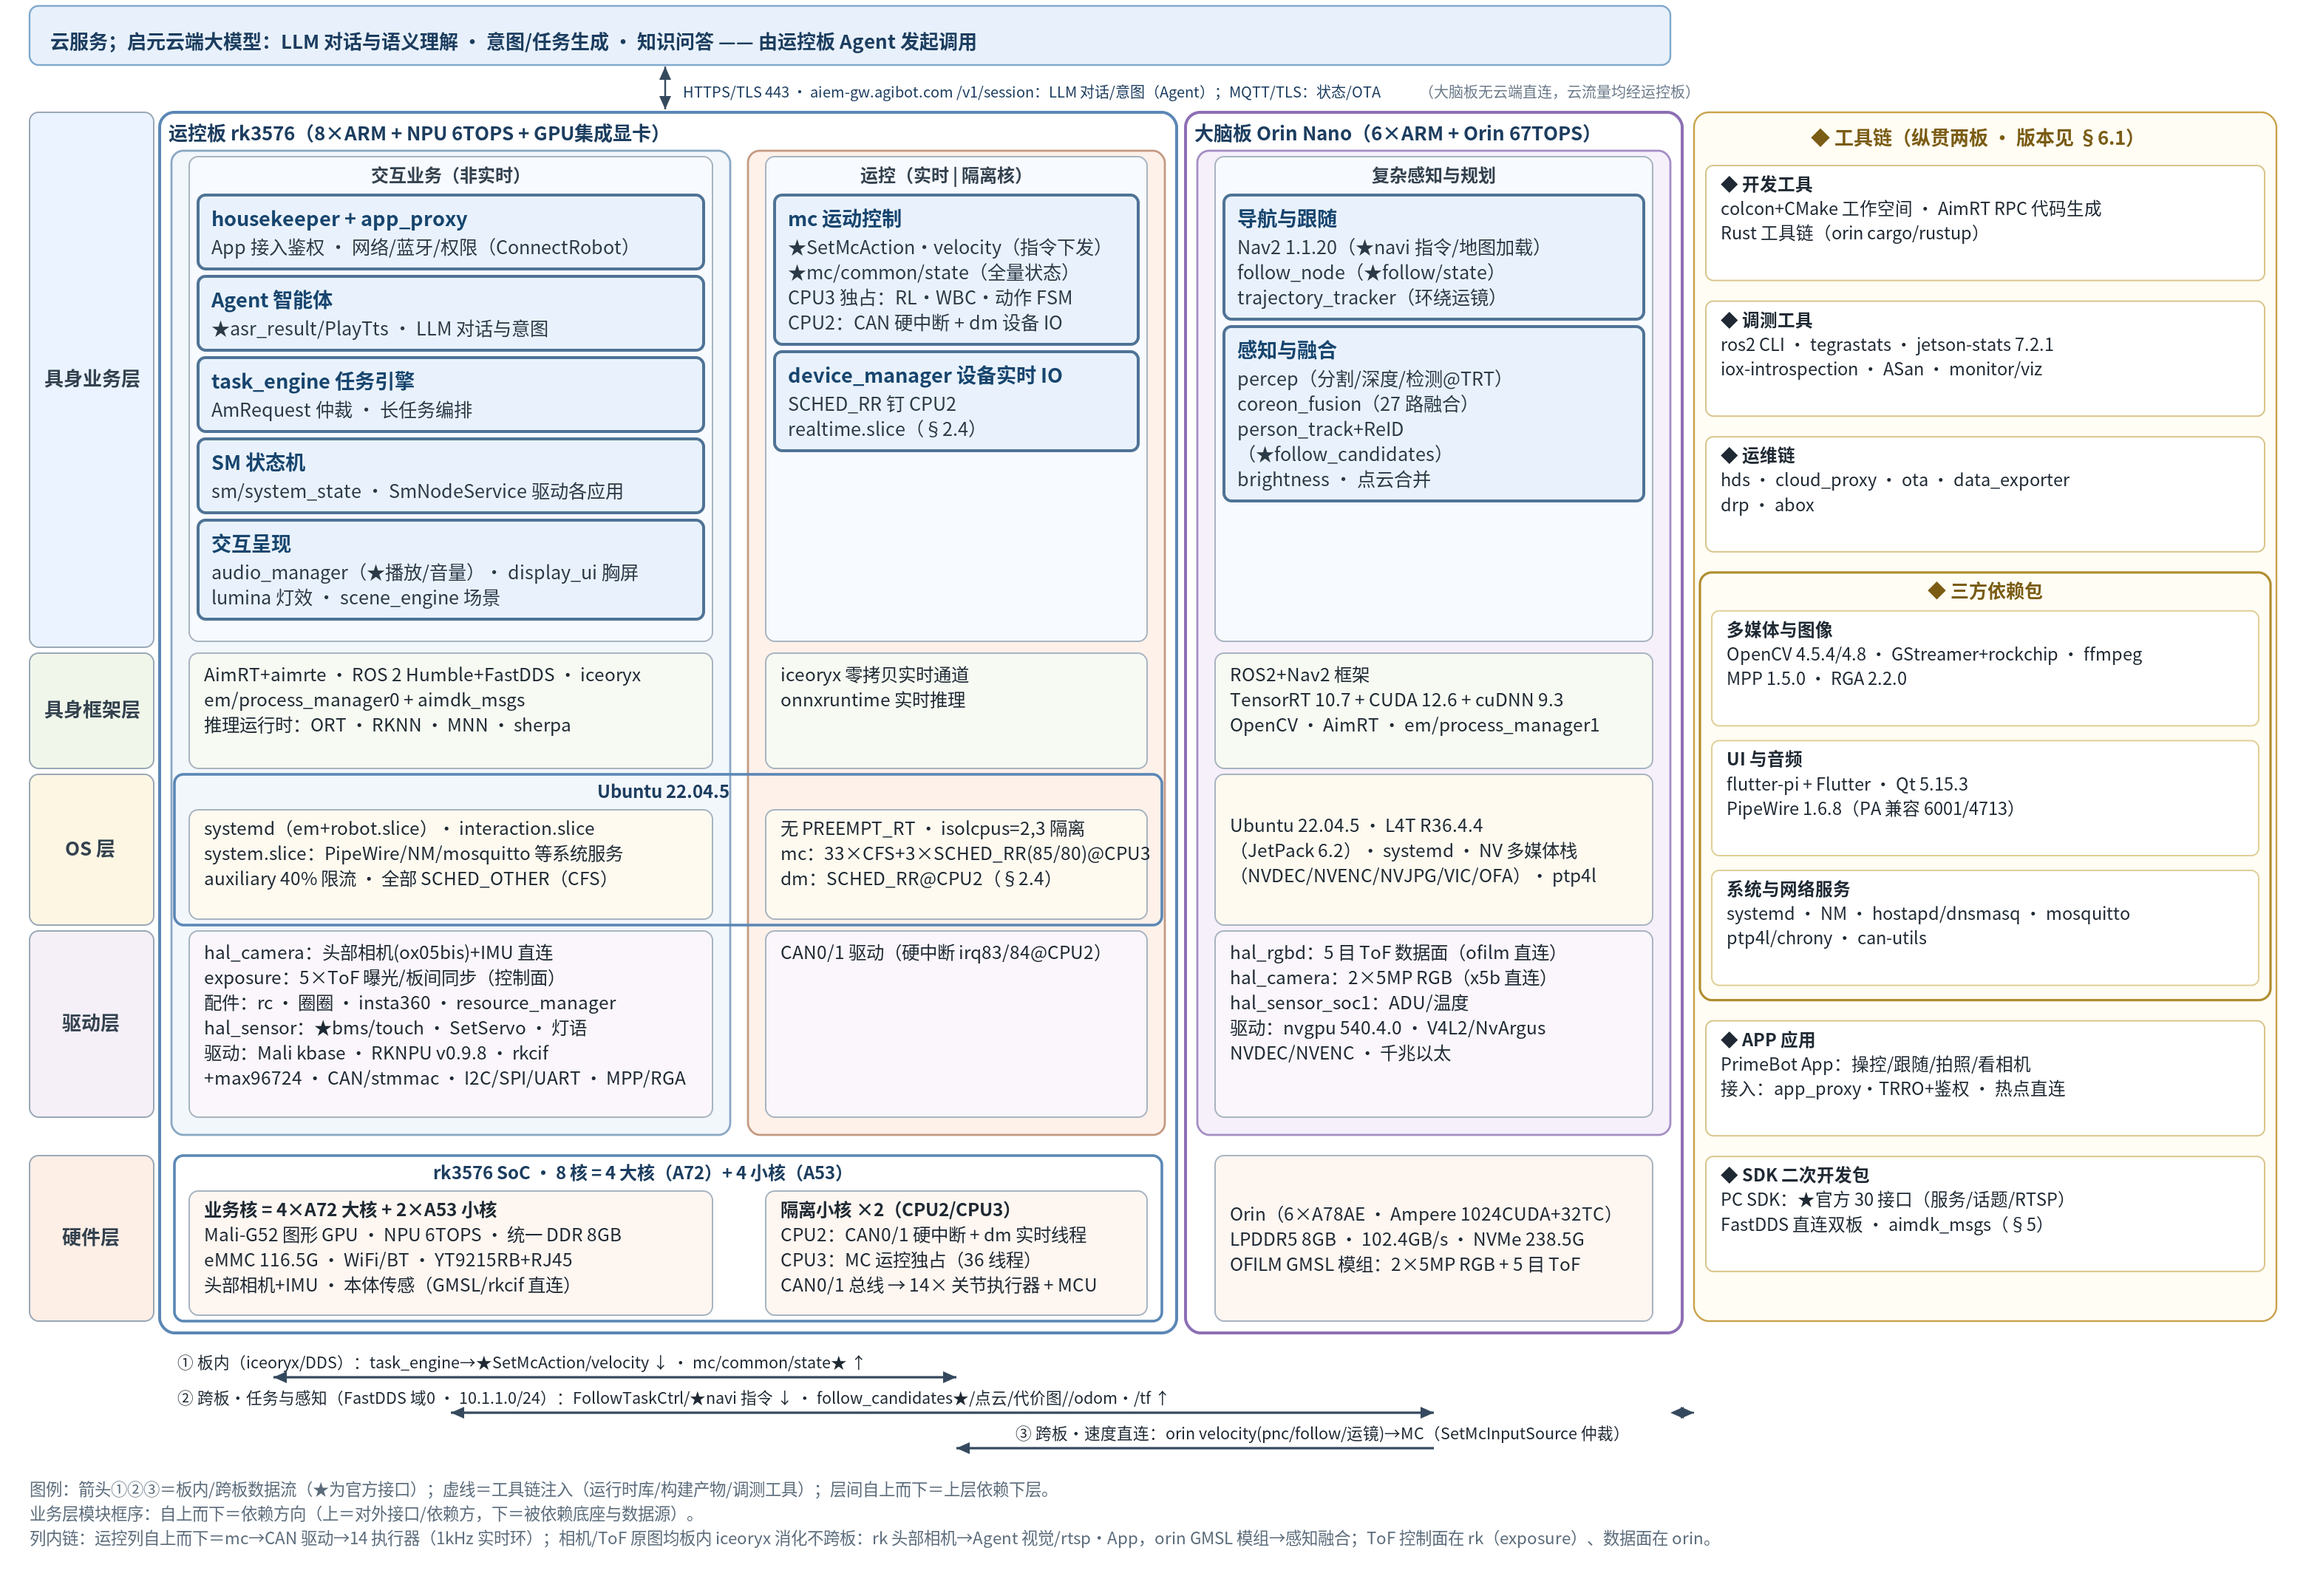
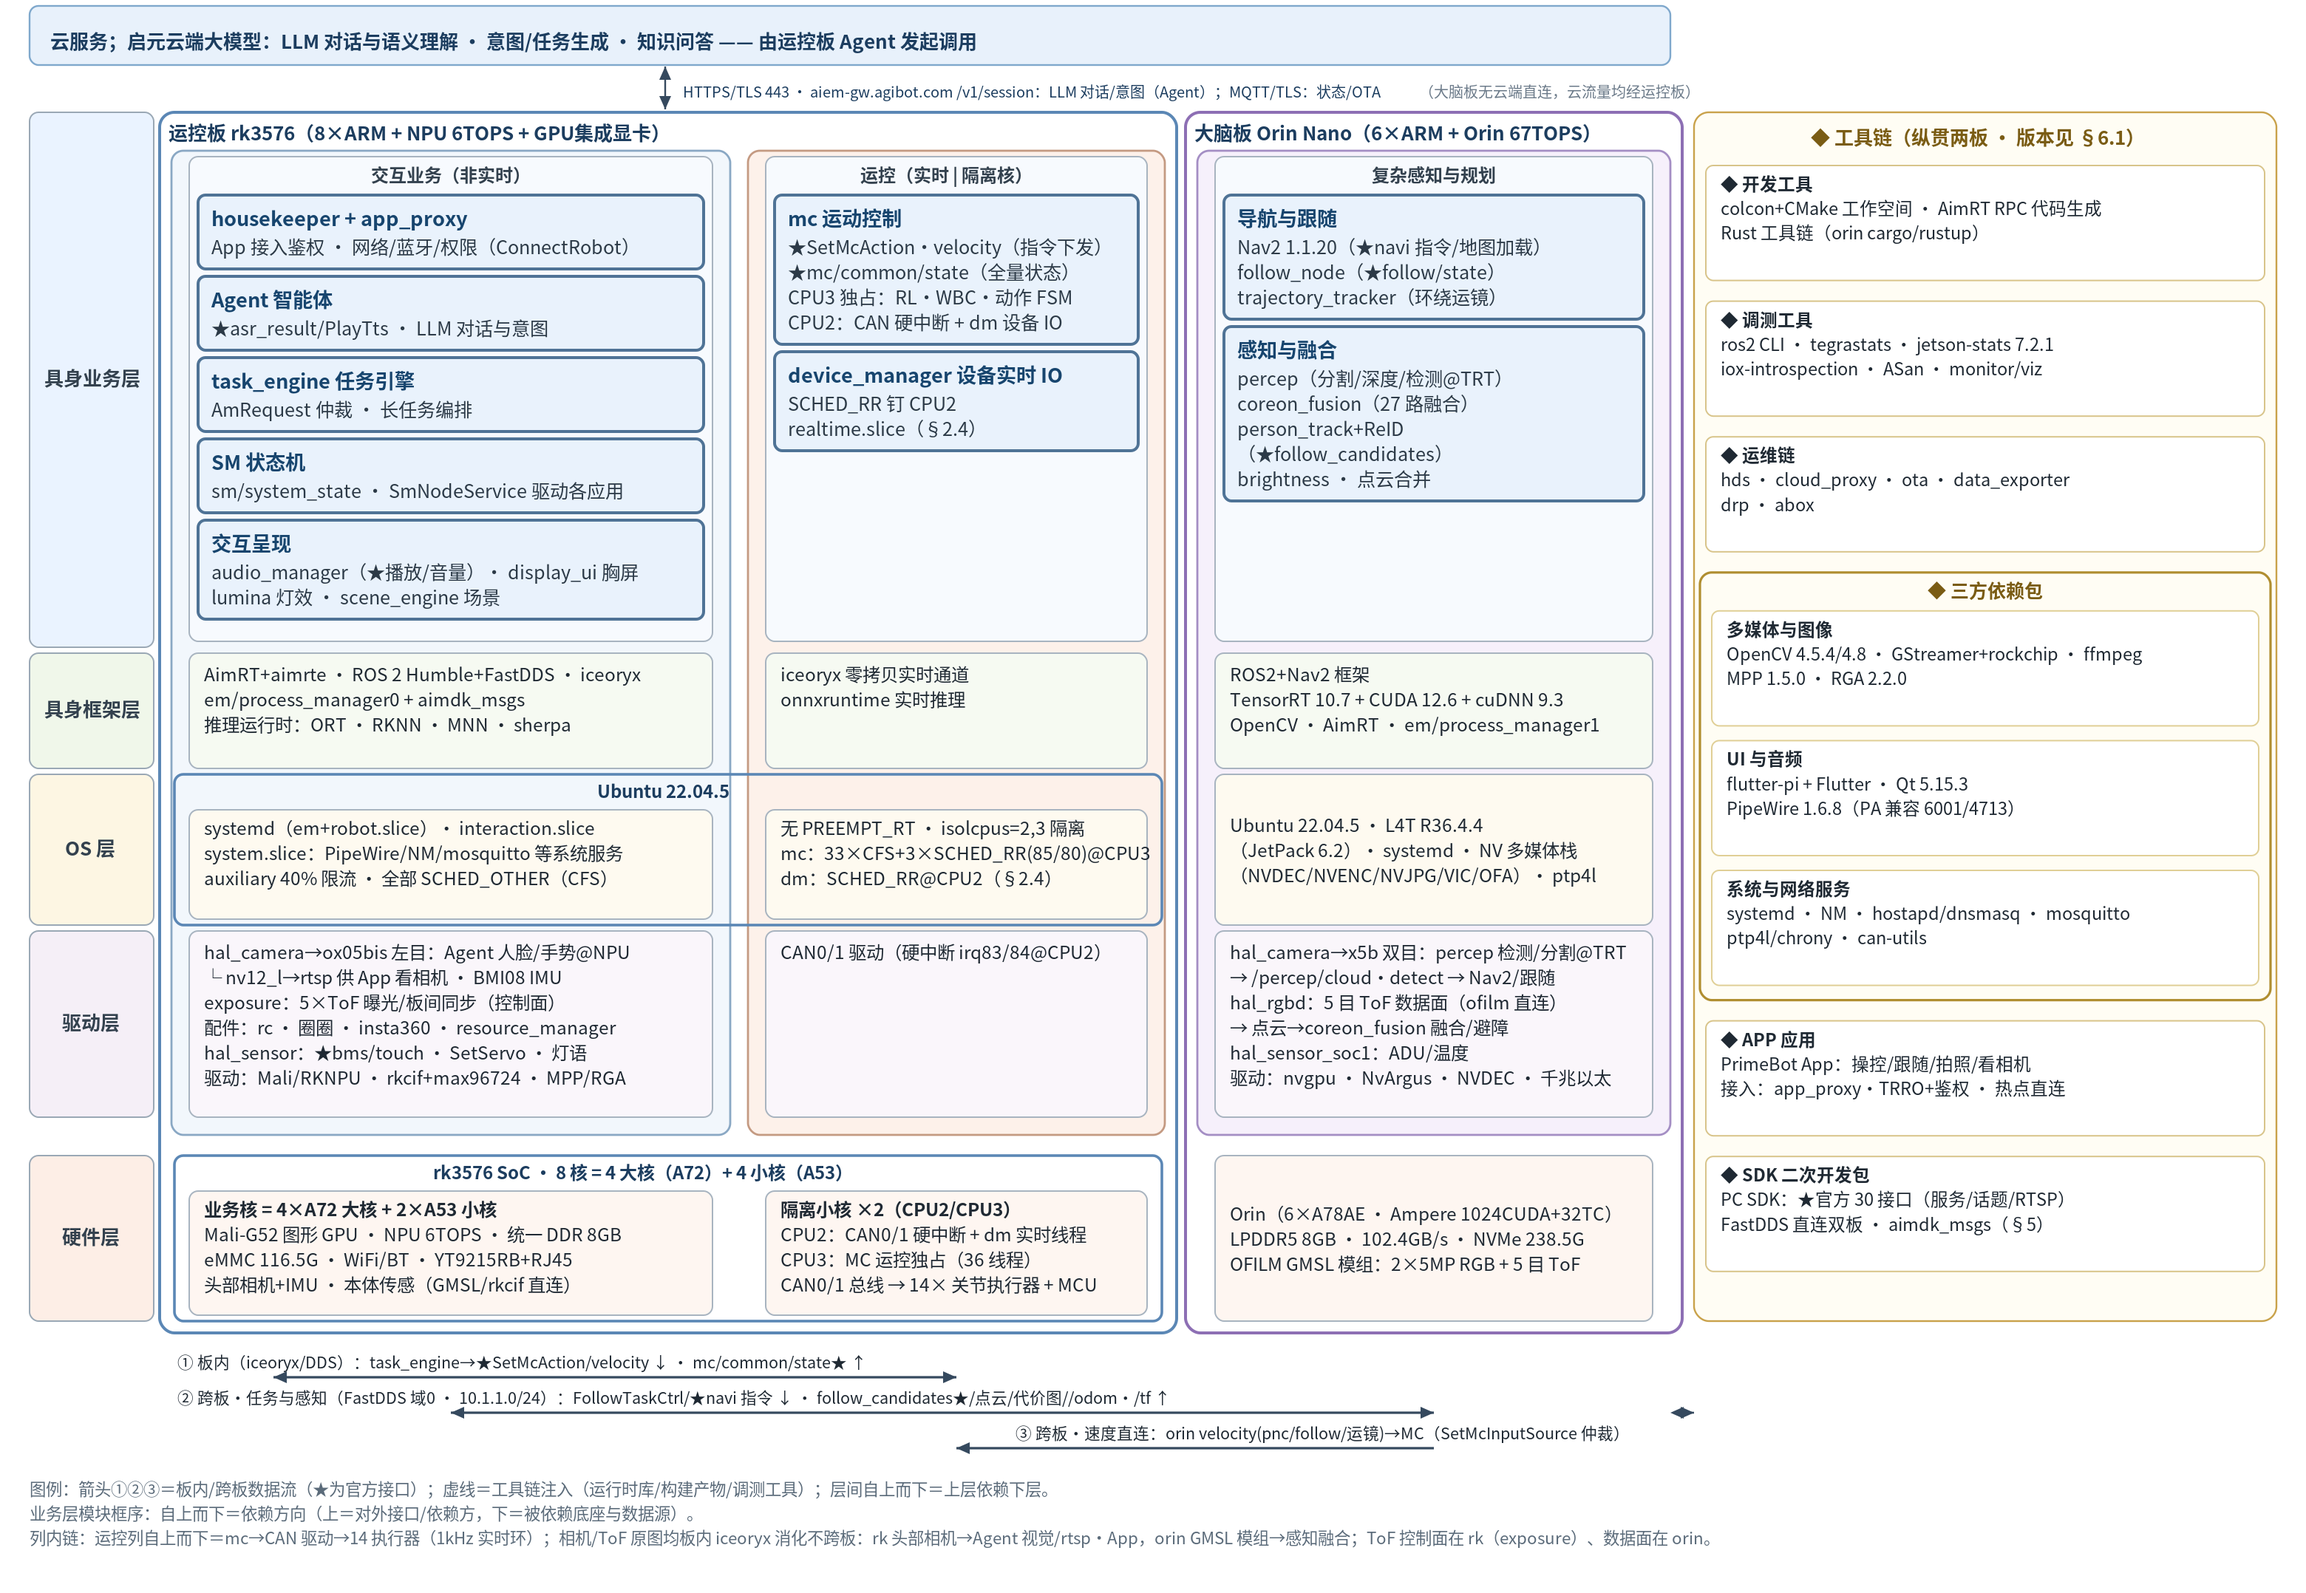
图 7-1 驱动层：hal_camera 显式标注所连相机与视频流用途（按实测）
- rk 格：hal_camera→ox05bis 左目：Agent 人脸/手势@NPU；└ nv12_l→rtsp
  供 App 看相机 · BMI08 IMU；底层驱动两行并为一行
- orin 格：hal_camera→x5b 双目：percep 检测/分割@TRT；→ /percep/cloud·
  detect → Nav2/跟随；hal_rgbd→点云→coreon_fusion 融合/避障
- 「→」表示板内流路径；视频零跨板（板间 ~2Mbps 实测见 c4 归档第 8 节）
- Chrome 117/117 文本全渲染；?v=20261031o

Changed region(s): [[0.0933, 0.5904, 0.2798, 0.6837], [0.5285, 0.5904, 0.684, 0.6837]]

diff --git a/figures/gen_fig_7_1.py b/figures/gen_fig_7_1.py
@@ -108,18 +108,20 @@ os_c3 = [('Ubuntu 22.04.5 · L4T R36.4.4', False),
          ('（JetPack 6.2）· systemd · NV 多媒体栈', False),
          ('（NVDEC/NVENC/NVJPG/VIC/OFA）· ptp4l', False)]
 # 驱动层：传感直连内容在前（以传感为重），底层驱动在后
-dr_c1 = [('hal_camera：头部相机(ox05bis)+IMU 直连', False),
+# 驱动层：传感直连在前（hal_camera 显式标注所连相机与视频流用途，→ 为板内流路径），底层驱动在后
+dr_c1 = [('hal_camera→ox05bis 左目：Agent 人脸/手势@NPU', False),
+         ('└ nv12_l→rtsp 供 App 看相机 · BMI08 IMU', False),
          ('exposure：5×ToF 曝光/板间同步（控制面）', False),
          ('配件：rc · 圈圈 · insta360 · resource_manager', False),
          ('hal_sensor：★bms/touch · SetServo · 灯语', False),
-         ('驱动：Mali kbase · RKNPU v0.9.8 · rkcif', False),
-         ('+max96724 · CAN/stmmac · I2C/SPI/UART · MPP/RGA', False)]
+         ('驱动：Mali/RKNPU · rkcif+max96724 · MPP/RGA', False)]
 dr_c2 = [('CAN0/1 驱动（硬中断 irq83/84@CPU2）', False)]
-dr_c3 = [('hal_rgbd：5 目 ToF 数据面（ofilm 直连）', False),
-         ('hal_camera：2×5MP RGB（x5b 直连）', False),
+dr_c3 = [('hal_camera→x5b 双目：percep 检测/分割@TRT', False),
+         ('→ /percep/cloud·detect → Nav2/跟随', False),
+         ('hal_rgbd：5 目 ToF 数据面（ofilm 直连）', False),
+         ('→ 点云→coreon_fusion 融合/避障', False),
          ('hal_sensor_soc1：ADU/温度', False),
-         ('驱动：nvgpu 540.4.0 · V4L2/NvArgus', False),
-         ('NVDEC/NVENC · 千兆以太', False)]
+         ('驱动：nvgpu · NvArgus · NVDEC · 千兆以太', False)]
 hw_c1 = [('业务核 = 4×A72 大核 + 2×A53 小核', True),
          ('Mali-G52 图形 GPU · NPU 6TOPS · 统一 DDR 8GB', False),
          ('eMMC 116.5G · WiFi/BT · YT9215RB+RJ45', False),

diff --git a/t1-pro-orin-rk-analysis.md b/t1-pro-orin-rk-analysis.md
@@ -1487,7 +1487,7 @@ sequenceDiagram
 
 **排版口径**：**纵向（列）**按部署域切分为三部分——运控板 rk 的「交互业务（非实时）」与「运控执行（实时）」两列 + 大脑板 orin 的「复杂感知与规划」一列；**横向（行）**自上而下为**具身业务层 → 具身框架层 → OS 层 → 驱动层 → 硬件层**五层（即自底向上：硬件→驱动→OS→框架→业务）；**最右侧为纵贯全部层级的「工具链」大框**。因 mermaid 自动布局无法锁定矩阵式行列顺序，本图由脚本生成 **SVG 矢量图**（`figures/gen_fig_7_1.py` → `figures/fig-7-1-layered-arch.svg`，仓库同时提供 PNG 版 `fig-7-1-layered-arch.png`），行列位置精确可控，并直接画出板内/跨板数据流与工具链注入连线。按 4+1 视图口径，**本图即逻辑视图**：以具身业务层的功能模块（职责+接口★）为主体，其下框架/OS/驱动层与硬件层作为物理承载一并框出（嵌套结构：**板框 ⊃ 部分框 ⊃ 业务/框架/OS/驱动四层；硬件层在板框内、部分框外**）；模块间接口协作另见 §7.4，场景串联见 §6.2。
 
-![图 7-1 逻辑视图（双板纵切 × 五层横切 × 工具链纵贯）](figures/fig-7-1-layered-arch.png?v=20261031n)
+![图 7-1 逻辑视图（双板纵切 × 五层横切 × 工具链纵贯）](figures/fig-7-1-layered-arch.png?v=20261031o)
 
 > **图 7-1 读法**：**板框**（运控板 rk3576 / 大脑板 Orin Nano）⊃ **部分框**（交互业务（非实时）/ 运控（实时｜隔离核）/ 复杂感知与规划，各含具身业务→框架→OS→驱动四层，上层依赖下层）（正文为缩略显示，点击图片可放大至原生分辨率）；**硬件层**在板框内、部分框正下方（**rk 侧两格外包统一框：rk3576 8 核＝4×A72 大核＋4×A53 小核**，内格细分业务核〔4×A72＋2×A53〕与 2×隔离小核 CPU2/CPU3）；**OS 层 rk 两列同属一个 Ubuntu 22.04.5 实例**（外包统一框；两格内容侧重调度——业务格：interaction/system/auxiliary slice + CFS，运控格：isolcpus=2,3 + SCHED_RR 钉核）；**具身业务层内每模块独立成框，框序自上而下=依赖方向（上=对外接口/依赖方，下=被依赖底座与数据源）**；最右列为**工具链**纵贯（**开发工具 → 调测工具 → 运维链 → 三方依赖包**〔多媒体与图像 · UI 与音频 · 系统与网络服务〕**→ APP 应用 → SDK 二次开发包**；**传感直连内容已并入各板驱动层格**——rk 格以 hal_sensor/hal_camera(ox05bis)/exposure 为前，orin 格以 hal_rgbd/hal_camera(x5b) 为前）；**①②③通信线统一画在图底部**。
 > **连线与交互**（图上带编号的箭头）：**① 板内**（rk 业务⇄运控，iceoryx/DDS）——task_engine→★SetMcAction/velocity ↓，mc→★mc/common/state ↑；**② 跨板·任务与感知**（rk 业务⇄orin，内部以太网 10.1.1.0/24 · FastDDS 域 0）——FollowTaskCtrl/★navi 指令 ↓，★follow_candidates/点云/代价图、/odom·/tf ↑（只走结果级数据，相机原图板内消化）；**③ 跨板·速度直连**（orin→MC）——nav2/follow/运镜发布 velocity(pnc/follow)，MC 按 SetMcInputSource 仲裁；**外部接入**——App→app_proxy(TRRO/鉴权)、**云 LLM⇄Agent（HTTPS/TLS 443 · aiem-gw.agibot.com /v1/session：对话/意图，顶部「启元云端大模型」带即此链路，仅连运控板；2026-10-31 实测大脑板零云进程/零外部连接）**、云→cloud_proxy(MQTT/TLS：状态/OTA)、遥控器→rc(蓝牙)、圈圈→connx(BLE+UWB)、Insta360→insta360(WiFi)，全部终结于 rk；PC ★接口面 FastDDS 直连双板；**虚线**=工具链注入。模块级全量接口见 §7.4，连接视角见 §7.2。
